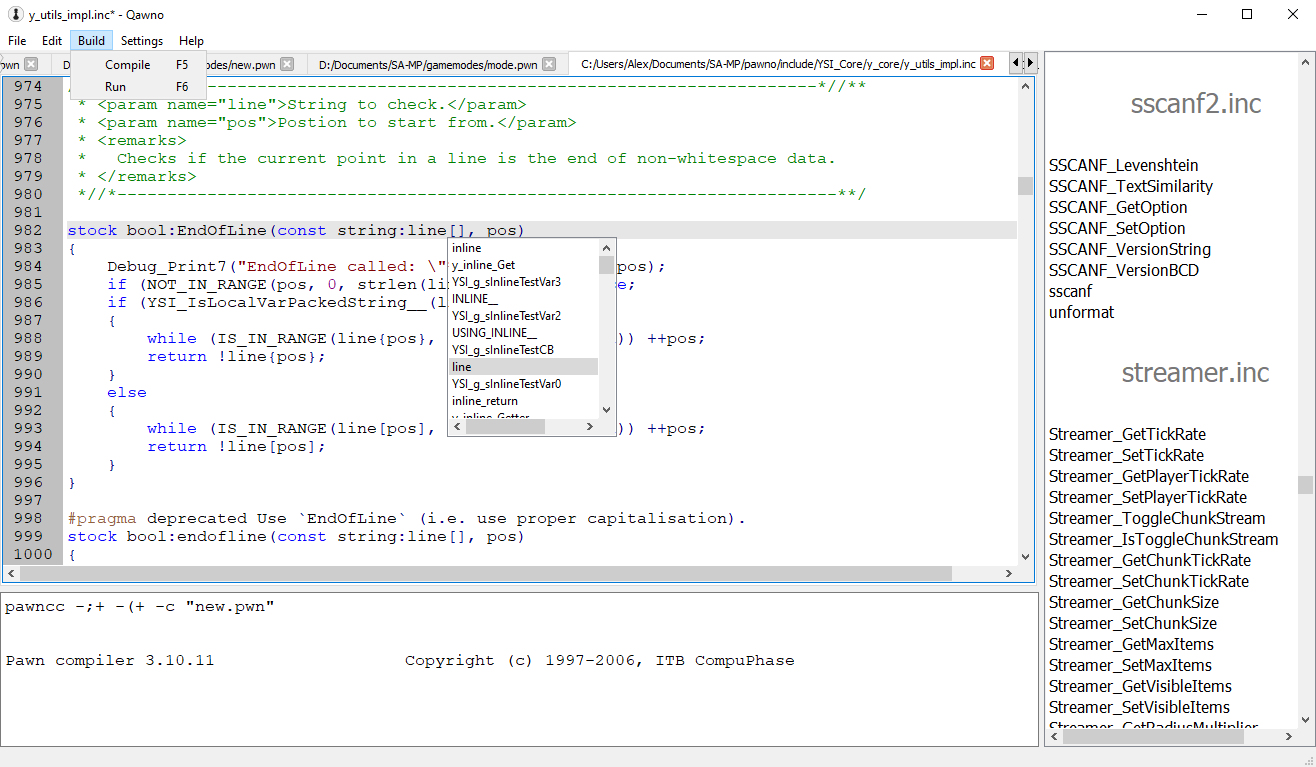
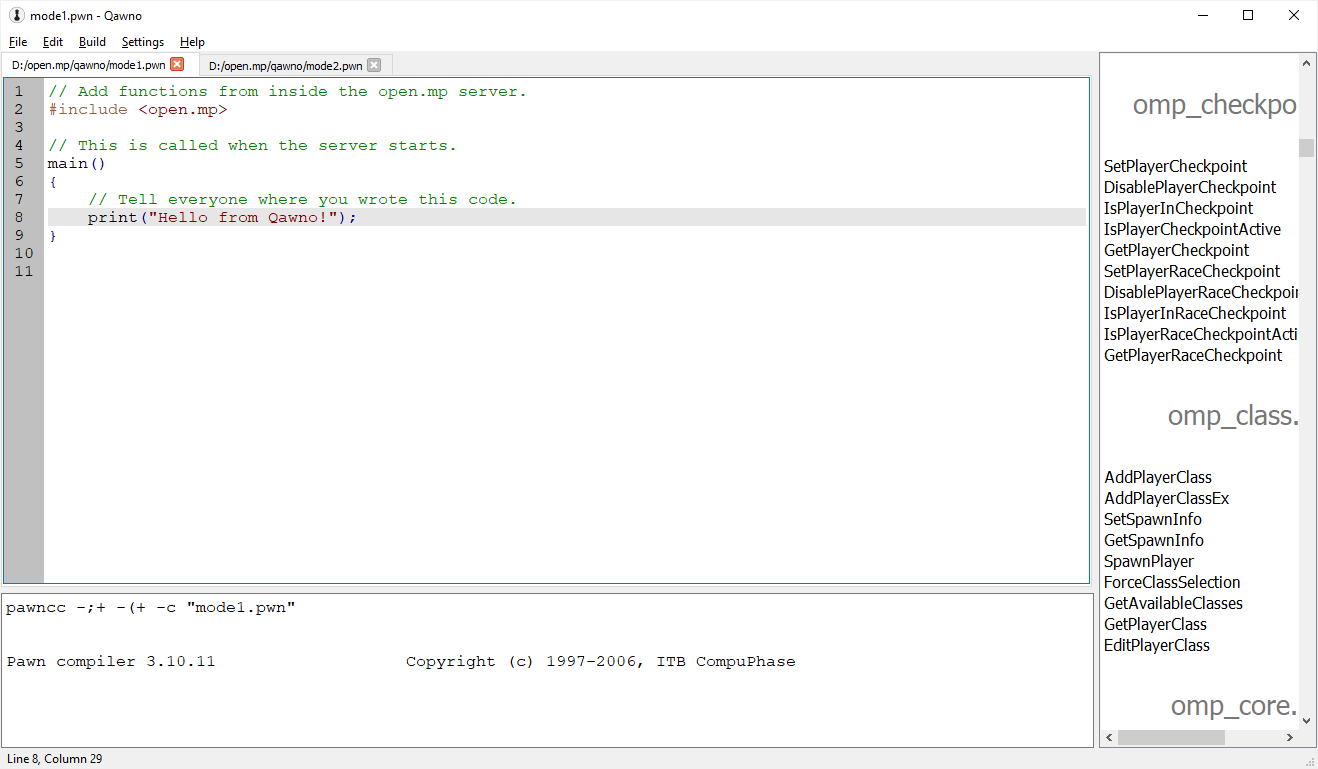
Lots of documentation.

diff --git a/README.md b/README.md
@@ -1,11 +1,73 @@
-qawno
-=====
+ Qawno
+=======
 
-Qawno is a simple cross-platform Pawn editor with syntax highlighting and script compilation support.
+Qawno is a simple cross-platform Pawn editor with syntax highlighting, script compilation, and open.mp server launch support.
 
 ![Screenshot](documentation/screenshot.png)
 
-## Colour Picker
+ Features
+----------
+
+* **Syntax Highlighting** - Simplify reading code by visually distinguishing different types of text, comments, strings, keywords, etc.
+* **Auto Completion** - Speeds up code by trying to guess what function you are trying to write, and suggesting complete symbols to insert in to code.
+* **Natives List** - Show known natives (and some other functions) in a side bar for fast reference.  Clicking on these will show their parameters and return types as well.
+* **Tabs** - Open multiple files at once while working on large scripts.
+* **Pawn Compiler** - Compile your code and view the output directly in a panel at the bottom of the program.
+* **open.mp Launch** - Start a server running your code immediately for fast feedback.
+* **Colour Picker** - Select hex numbers representing colours visually (`Ctrl+M`).
+* **Editing Helpers** - Scroll with `Ctrl+Up`/`Ctrl+Down`.  Duplicate a line with `Ctrl+D`.  Delete a line with `Ctrl+L`.  Comment a line with `Ctrl+K`.  Also block comment a selection with `Ctrl+K`.
+* **Find And Replace** - Search for some text, and optionally replace the found location with new text.  Alternatively replace all the instances of that text with the new version.
+
+ Main View
+-----------
+
+![Screenshot](documentation/annotations.png)
+
+1. **The Title Bar.**  Tells you the name of the file currently being edited, and the name of the program (*Qawno*).  If the current file has been changed and not saved this will include a `*` after the filename:
+
+![Screenshot](documentation/unsaved.png)
+
+2. **The Menu Bar.**  Provides visual access to all the editor features and options.
+
+![Screenshot](documentation/menu-file.png)
+
+* *New* - Start a new file in a new tab (shown in area ***3***).
+* *Open* - Open an existing file in a new tab (or the initial tab if the program was just started).
+* *Close* - Close the current file in the current tab.  Will prompt you to save it if the code has been changed.
+* *Save* - Save the current file in the current tab.  Will do *Save As* for new files.
+* *Save As* - Save the current file in the current tab with a specified name and location.
+* *Save All* - Save all the files open in all the tabs.  New files will prompt for a name and location.
+* *Quit* - Close Qawno.  Will remember all the currently open tabs for next time.
+
+![Screenshot](documentation/menu-edit.png)
+
+* *Undo* - Revert the last change made, such as typing, pasting, or replacing.
+* *Redo* - If you undid an action, perform the action again.
+* *Cut* - Put the currently selected code on to the clipboard and delete it from the editing text.
+* *Copy* - Put the currently selected code on to the clipboard.
+* *Paste* - Insert the latest item from the clipboard (if it is text) in to the current position in code.  If code is selected this will replace the selection.
+* *Find...* - Search for some text in the current document.  May optionally replace the found text with new text.
+* *Find Next...* - If an item of text has been found this attempts to move on to the next instance of that text in the current file.
+* *Go To Line...* - Enter a line number and the cursor will move straight to that line (see area ***8***).  Useful for jumping to compiler error locations.
+* *Delete Line* - Will remove the whole line that the cursor is currently on.
+* *Duplicate Line* - Will make a copy of the whole line that the cursor is currently on below the current line.
+* *Comment Line/Selection* - If the cursor is on a normal line with nothing selected, this will comment out the current line by adding `//` to the start.  If a block of text is selected this will instead comment out that block using `/* */`.  Pressing this option again on the same line or block will reverse the action, so performing it on a line or block already commented out will uncomment the line or block.
+* *Colour Selection* - Opens the colour selection dialog (colour picker).  This makes inserting hex colour codes simpler by allowing you to choose them visually, and by pre-defining and saving useful or common ones.
+
+![Screenshot](documentation/menu-build.png)
+
+* *Compile* - Use the pawn compiler to convert the current file in to a .AMX.  Will save *all* open files first as the main script may depend on other files being edited at the same time.
+* *Run* - Compile the code as with *Compile*, and then attempt to run the open.mp server and lauch the current mode.  If a server is already open this will first kill that instance so that clients/players connected will automatically re-connect.
+
+![Screenshot](documentation/menu-settings.png)
+
+* *Font -> Editor* - Change the font styles and sizes used in the main code editor pane (area ***4***).
+* *Font -> Output* - Change the font styles and sizes used in the compiler output pane (area ***5***).
+
+![Screenshot](documentation/menu-help.png)
+
+ Colour Picker
+---------------
 
 Going to *Edit -> Colour Selection* or pressing *Ctrl+M* will bring up the colour selection dialog, shown below:
 